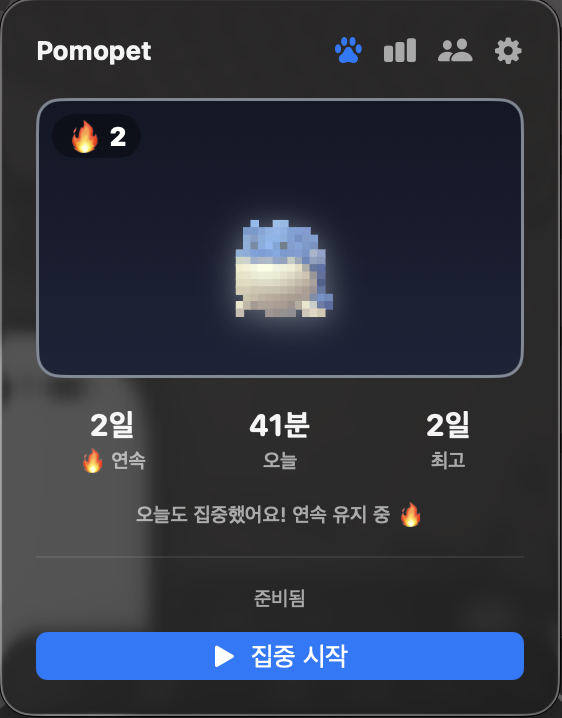
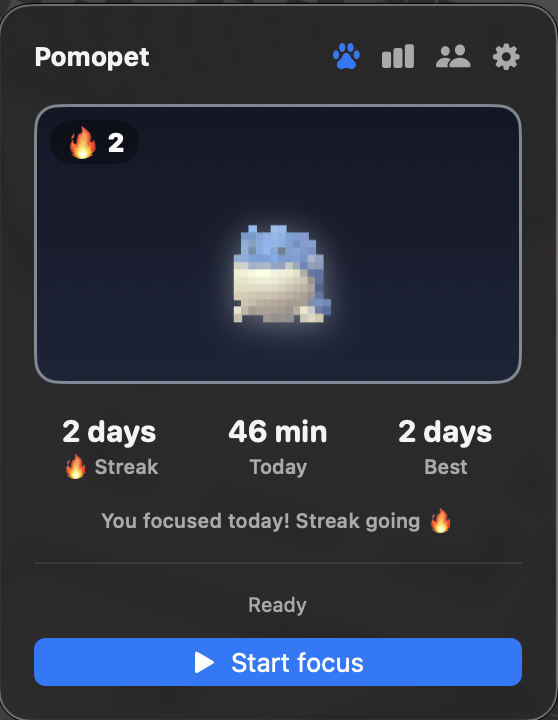
docs: 스크린샷과 README 최신화
1.6.0 화면으로 한국어·영어 스크린샷을 다시 찍었다. 영문은 그동안 세션·하루 목표가
보이는 옛 UI 였다.

README 두 곳에 빠져 있던 내용을 채운다 — 업로드 미리보기·배경 지우기(특징),
Vision(기술 스택), BackgroundRemover·CharacterPreview(구조). 사진 안내도
"투명 배경만 예쁘다" 에서 "아무 사진이나 올리고 미리보기에서 배경을 지울 수 있다" 로
바꿨다. 작업 앱 감지는 머무는 동안에도 걸린다는 점을 덧붙였다.

영문 README 의 구조 설명에 남아 있던 UpdateChecker(이미 제거된 타입)도 정리했다.

diff --git a/README.en.md b/README.en.md
@@ -24,9 +24,9 @@ There are plenty of pet-raising Pomodoro apps. Pomopet differs in three ways.
 
 ## 📸 Screenshots
 
-| Character (active) | Settings | Stats · Heatmap |
-|:---:|:---:|:---:|
-| <img src="docs/screenshots/en/en_main.png" width="250" alt="Main"> | <img src="docs/screenshots/en/en_settings.png" width="250" alt="Settings"> | <img src="docs/screenshots/en/en_stats.png" width="250" alt="Stats"> |
+| Character (awake) | Friends | Stats · heatmap | Settings |
+|:---:|:---:|:---:|:---:|
+| <img src="docs/screenshots/en/en_main.png" width="220" alt="Main"> | <img src="docs/screenshots/en/en_friends.png" width="220" alt="Friends"> | <img src="docs/screenshots/en/en_stats.png" width="220" alt="Stats"> | <img src="docs/screenshots/en/en_settings.png" width="220" alt="Settings"> |
 
 ### 🖥 In the menu bar
 
@@ -43,6 +43,7 @@ Once it's running, it lives in your Mac's menu bar like this.
 ## ✨ Features
 
 - **🖼 Upload your own character** — Drop in a favorite image and it's converted to pixel art for your pet
+- **👀 Preview before you commit** — See how your photo looks as dots and in the menu bar first. Photos with a background can have it **removed automatically**
 - **🔥 Streak** — Focus on any given day to keep the streak; skip a day and it resets
 - **😴 Awake / Asleep** — Meet today's goal and your character wakes up in color and bounces; otherwise it sleeps in grayscale
 - **🏅 Milestone aura** — A glowing border: 3-day streak BRONZE → 7 SILVER → 30 GOLD → 100 DIAMOND
@@ -51,7 +52,7 @@ Once it's running, it lives in your Mac's menu bar like this.
 - **🪶 Lightweight** — Lives only in the menu bar (no Dock icon). All graphics are rendered in code, with no external images
 - **🔄 Auto-update** — Installs new versions in-app automatically (via [Sparkle](https://sparkle-project.org); details in [Updates](#-updates))
 - **👥 Grow together with friends** — Connect with a 6-character code to see whether your friends' pets are awake, and poke the sleeping ones. Off by default ([what is shared](#-friends-and-privacy))
-- **▶ Work app detection** — Open Xcode or VS Code and focus starts 3 seconds later (with time to decline)
+- **▶ Work app detection** — Open Xcode or VS Code and focus starts 3 seconds later (with time to decline). It also notices when you're already working in one
 - **☕ Away detection** — If there's no input for 5 minutes during a session, Pomopet asks whether to stop, so idle time doesn't inflate your record
 - **🌐 Korean · English** — Follows your system language, or switch it yourself with a button in Settings
 
@@ -166,18 +167,29 @@ The server lives in [`server/`](server/) in this repo. If you'd rather not trust
 
 ## 🛠 Tech stack
 
-- **SwiftUI** · `MenuBarExtra` (menu-bar-only app)
+- **SwiftUI** · `MenuBarExtra` (menu-bar-only app, no Dock icon)
 - **SwiftData** — persists daily records and stats
 - **Canvas** — pixel rendering without external images (`ImagePixelizer` converts an uploaded image into a color grid)
+- **Sparkle** — in-app auto updates (EdDSA signature verification)
+- **NSWorkspace** — work app detection (no permissions needed)
+- **Vision** — removes the background from uploaded photos. Built into macOS, so it adds no app size and runs entirely on your Mac
+- **Cloudflare Workers + D1** — friend sync server ([`server/`](server/), optional)
 
 ### Project structure
 ```
 Pomopet/Sources/
-├─ App/        App entry point (PomopetApp, menu bar label)
-├─ Core/       Timer/streak logic (PomopetController), settings (TimerSettings), update check (UpdateChecker)
-├─ Models/     SwiftData models (DailyRecord, AppStats)
-├─ Creatures/  Pixel rendering (CustomPet, CharacterView)
-└─ Views/      Screens (PopoverView, Stats/Settings)
+├─ App/         App entry point (PomopetApp, menu bar label)
+├─ Core/        Timer/streak (PomopetController), settings (TimerSettings),
+│               store location (StoreLocation), language switching (Localization),
+│               auto updates (UpdaterManager)
+│   ├─ Friends/   Friend sync — networking, identity, pet cache, groups (off by default)
+│   └─ AutoStart/ Work app detection (WorkAppWatcher), away detection (IdleWatcher)
+├─ Models/      SwiftData models (DailyRecord, AppStats)
+├─ Creatures/   Pixel rendering (CustomPet, CharacterView, PetMenuBarIcon),
+│               background removal (BackgroundRemover)
+└─ Views/       Screens (Popover, Stats/Settings, Friends, upload preview, prompt cards)
+
+server/         Friend sync server (Cloudflare Workers + D1)
 ```
 
 ---

diff --git a/README.md b/README.md
@@ -43,6 +43,7 @@ Pomopet은 좋아하는 캐릭터 이미지를 **픽셀로 변환**해 키우는
 ## ✨ 특징
 
 - **🖼 내 캐릭터 업로드** — 좋아하는 이미지를 올리면 도트로 변환해 펫으로 사용
+- **👀 올리기 전에 미리보기** — 도트와 메뉴바 크기로 어떻게 보이는지 먼저 확인. 배경이 있는 사진은 **배경을 자동으로 지울 수 있어요**
 - **🔥 연속 기록(스트릭)** — 매일 집중하면 연속일이 쌓이고, 하루 걸르면 리셋
 - **😴 깨어남/잠듦** — 오늘 집중하면 캐릭터가 컬러로 깨어나 통통 튐 / 안 하면 흑백으로 잠듦
 - **🏅 마일스톤 아우라** — 연속 3일 BRONZE → 7일 SILVER → 30일 GOLD → 100일 DIAMOND 테두리
@@ -51,7 +52,7 @@ Pomopet은 좋아하는 캐릭터 이미지를 **픽셀로 변환**해 키우는
 - **🪶 가벼움** — Dock 아이콘 없이 메뉴바에만 존재. 모든 그래픽은 외부 이미지 없이 코드로 렌더링
 - **🔄 자동 업데이트** — 새 버전을 앱 안에서 자동 설치 (Sparkle, 자세히는 [업데이트](#-업데이트))
 - **👥 친구와 같이 키우기** — 6자리 코드로 연결해 친구 펫이 깨어 있는지 확인하고, 잠들어 있으면 쿡 찌르기 (기본 꺼짐 · [무엇이 오가나](#-친구-연동과-개인정보))
-- **▶ 작업 앱 감지** — 정해둔 앱(Xcode, VS Code 등)을 켜면 3초 뒤 집중이 자동으로 시작 (거절할 시간을 줍니다)
+- **▶ 작업 앱 감지** — 정해둔 앱(Xcode, VS Code 등)을 켜면 3초 뒤 집중이 자동으로 시작 (거절할 시간을 줍니다). 그 앱에서 계속 작업 중일 때도 알아챕니다
 - **☕ 자리 비움 감지** — 집중 중 5분 넘게 입력이 없으면 중지할지 물어봐 기록이 부풀지 않게
 - **🌐 한국어 · English** — 시스템 언어를 따르거나, 설정에서 버튼으로 직접 전환
 
@@ -114,7 +115,8 @@ scripts/release.sh 1.2.3
 ## 🚀 사용법
 
 1. 메뉴바 아이콘 클릭 → **키울 캐릭터 이미지 선택**
-   - 투명 배경 PNG(누끼)를 넣으면 캐릭터만 또렷하게 떠서 가장 예쁩니다.
+   - 아무 사진이나 올려도 됩니다. 고르면 **도트와 메뉴바 크기로 미리 보여주고**, 배경이 있는 사진은 배경을 지울지 물어봅니다.
+   - 투명 배경 PNG(누끼)라면 손댈 게 없어 가장 또렷합니다.
 2. **집중 시작** → 그 순간부터 캐릭터가 깨어납니다
 3. 오늘 집중한 기록이 남으면 **연속일**이 이어집니다 🔥 (중단해도 5분 이상 했으면 시간은 남습니다)
 4. 매일 이어가면 연속 기록과 잔디가 쌓입니다
@@ -176,6 +178,7 @@ scripts/release.sh 1.2.3
 - **Canvas** — 외부 이미지 없이 도트 렌더링 (`ImagePixelizer`가 업로드 이미지를 색 격자로 변환)
 - **Sparkle** — 인앱 자동 업데이트 (EdDSA 서명 검증)
 - **NSWorkspace** — 작업 앱 감지 (권한 불필요)
+- **Vision** — 업로드 사진의 배경 제거. macOS 에 들어 있어 앱 용량이 늘지 않고 기기 안에서만 처리됩니다
 - **Cloudflare Workers + D1** — 친구 연동 서버 ([`server/`](server/), 선택 기능)
 
 ### 프로젝트 구조
@@ -188,8 +191,9 @@ Pomopet/Sources/
 │   ├─ Friends/   친구 연동 — 통신·신원·펫 캐시·그룹 (기본 꺼짐)
 │   └─ AutoStart/ 작업 앱 감지 (WorkAppWatcher), 자리 비움 감지 (IdleWatcher)
 ├─ Models/      SwiftData 모델 (DailyRecord, AppStats)
-├─ Creatures/   도트 렌더링 (CustomPet, CharacterView, PetMenuBarIcon)
-└─ Views/       화면 (Popover, Stats/Settings, Friends, 제안 카드)
+├─ Creatures/   도트 렌더링 (CustomPet, CharacterView, PetMenuBarIcon),
+│               배경 제거 (BackgroundRemover)
+└─ Views/       화면 (Popover, Stats/Settings, Friends, 업로드 미리보기, 제안 카드)
 
 server/         친구 연동 서버 (Cloudflare Workers + D1)
 ```
